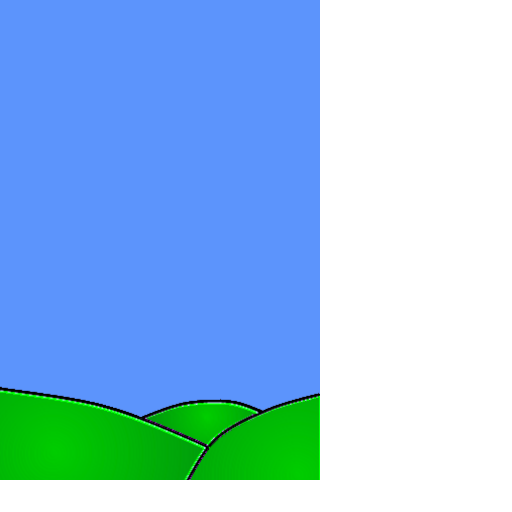
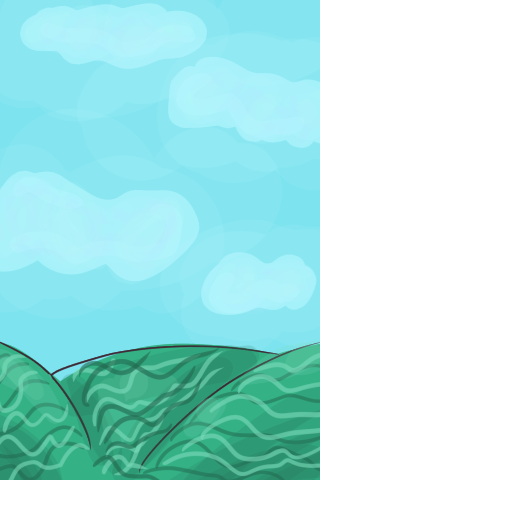
new background
updated background image, changed gameover to react to any key, not just on click

diff --git a/core/src/com/platformer/Avatar.java b/core/src/com/platformer/Avatar.java
@@ -22,7 +22,6 @@ public class Avatar extends DynamicGameObject {
 			velocity.add(0, World.gravity.y * deltaTime);
 			position.add(0, velocity.y * deltaTime);
 			bounds.y = position.y - bounds.height / 2;
-			System.out.println(deltaTime);
 		}
 		velocity.add(World.gravity.x * deltaTime, 0);
 		position.add(velocity.x * deltaTime, 0);

diff --git a/core/src/com/platformer/GameScreen.java b/core/src/com/platformer/GameScreen.java
@@ -136,7 +136,7 @@ public class GameScreen extends ScreenAdapter {
 	}
 
 	private void updateGameOver () {
-		if (Gdx.input.justTouched()) {
+		if (Gdx.input.justTouched() || Gdx.input.isKeyJustPressed(Keys.ANY_KEY)) {
 			game.setScreen(new MainMenuScreen(game));
 		}
 	}
